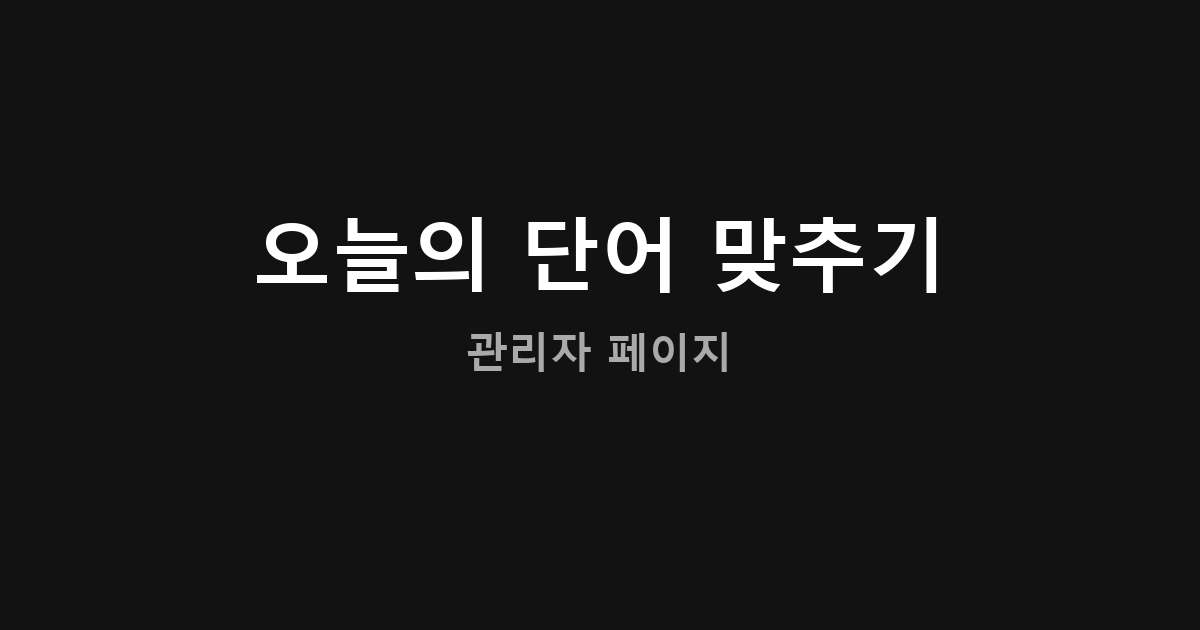
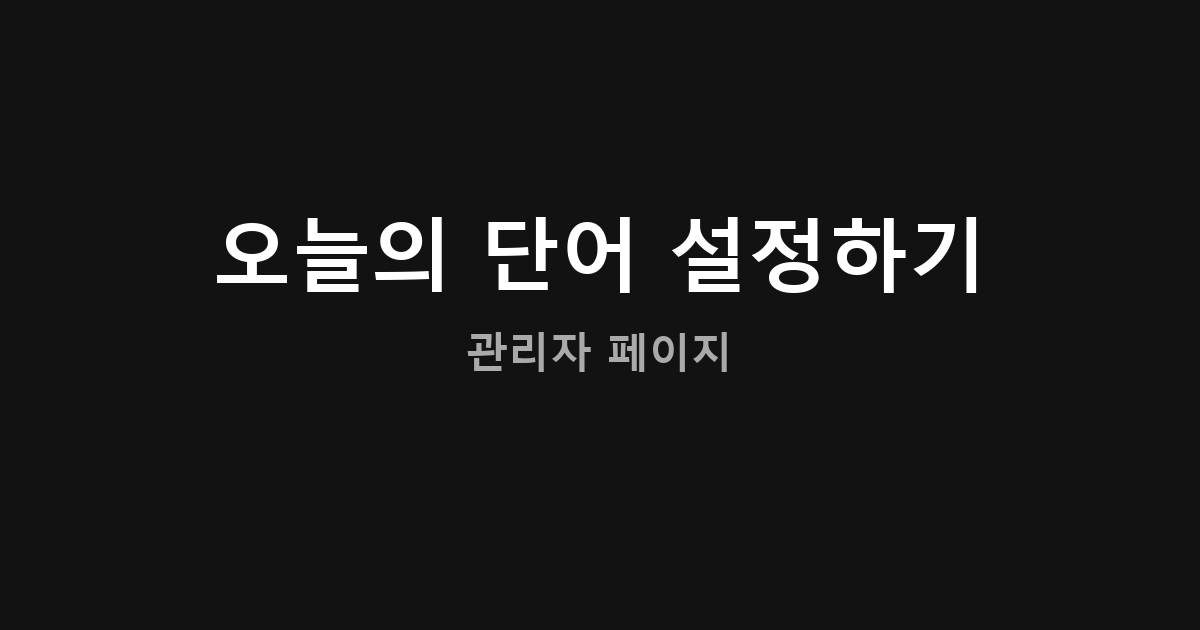
admin: OG 타이틀 '오늘의 단어 설정하기'로 변경

Changed region(s): [[0.185, 0.3317, 0.8325, 0.4825]]

diff --git a/admin.html b/admin.html
@@ -4,7 +4,7 @@
     <meta charset="UTF-8">
     <meta name="viewport" content="width=device-width, initial-scale=1.0">
     <title>오늘의 단어 관리</title>
-    <meta property="og:title" content="오늘의 단어 맞추기" />
+    <meta property="og:title" content="오늘의 단어 설정하기" />
     <meta property="og:description" content="관리자 페이지" />
     <meta property="og:image" content="https://hwjangg.github.io/KoreanWordGame/og-image-admin.png" />
     <meta property="og:url" content="https://hwjangg.github.io/KoreanWordGame/admin.html" />